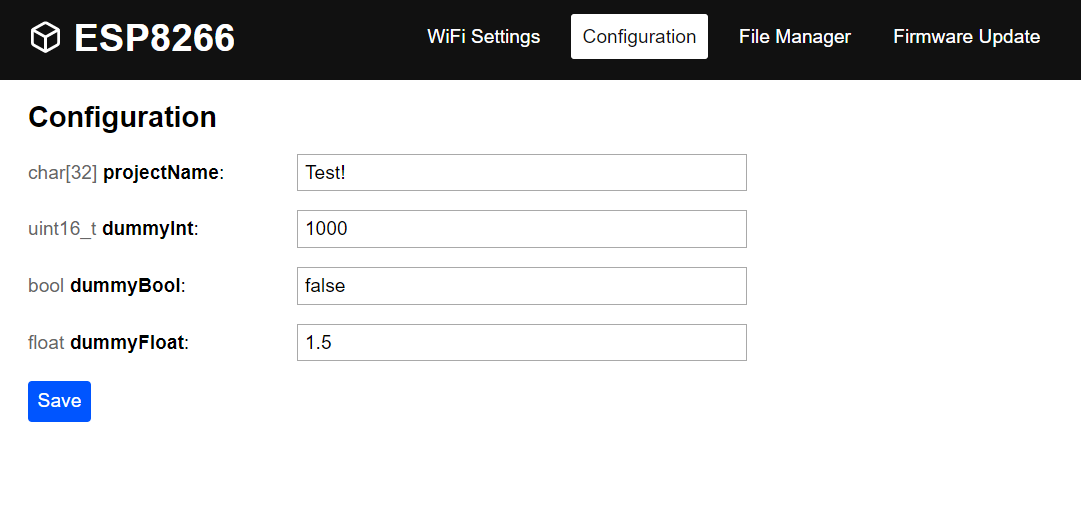
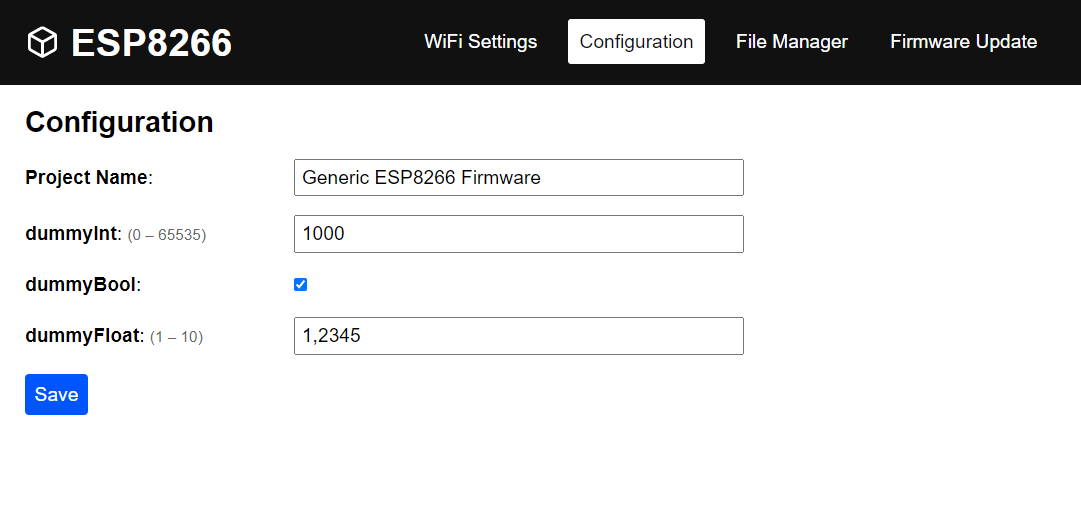
Update example according to latest state

diff --git a/docs/config-manager.md b/docs/config-manager.md
@@ -58,6 +58,7 @@ As mentioned earlier, the configuration data is defined in the JSON file `html/j
 [
     {
         "name": "projectName",
+        "label": "Project Name",
         "type": "char",
         "length": 32,
         "value": "Generic ESP8266 Firmware"
@@ -71,11 +72,20 @@ As mentioned earlier, the configuration data is defined in the JSON file `html/j
         "name": "dummyBool",
         "type": "bool",
         "value": true
-    },
+    },    
     {
         "name": "dummyFloat",
         "type": "float",
+        "min": 1,
+        "max": 10,
         "value": 1.2345
+    },
+    {
+        "name": "dummyString",
+        "type": "char",
+        "hidden": true,
+        "length": 11,
+        "value": "invisible!"
     }
 ]
 ```
@@ -95,6 +105,7 @@ struct configData
 	uint16_t dummyInt;
 	bool dummyBool;
 	float dummyFloat;
+	char dummyString[11];
 };
 
 extern uint32_t configVersion;
@@ -108,14 +119,15 @@ extern const configData defaults;
 #include <Arduino.h>
 #include "config.h"
 
-uint32_t configVersion = 340847549; //generated identifier to compare config with EEPROM
+uint32_t configVersion = 2773241707; //generated identifier to compare config with EEPROM
 
 const configData defaults PROGMEM =
 {
 	"Generic ESP8266 Firmware",
 	1000,
 	true,
-	1.2345
+	1.2345,
+	"invisible!"
 };
 ```
 
